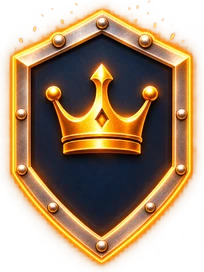
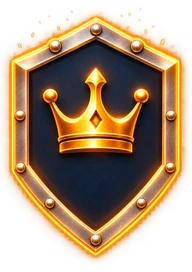
Profile > Ranks: keep every spark above the glowing Master Forger shield
Claude-Session: https://claude.ai/code/session_013GYUprcevR9B66pJGqYhEQ

diff --git a/docs/design/assets.md b/docs/design/assets.md
@@ -36,7 +36,7 @@ Stable build; `needed` does not exist yet.
 | Iron Forger rank shield, inactive (silver, crossed hammers) | `docs/design/art/ranks/iron-forger-inactive-v1.png` (1122 × 1402, transparent) | Profile > Ranks: the Iron Forger shield when it is not your rank, and the Next rank icon | Chris, 2026-11-07, supplied as approved rank art | KratosBI | `app/ui/art/ranks/iron-forger-inactive.webp` (218 × 272) | approved |
 | Steel Forger rank shield, active (glowing, gear) | `docs/design/art/ranks/steel-forger-active-v1.png` (1122 × 1402, transparent) | Profile > Ranks: the Steel Forger shield when it is your rank; name and rank number are real text over it | Chris, 2026-11-07, supplied as approved rank art | KratosBI | `app/ui/art/ranks/steel-forger-active.webp` (218 × 272) | approved |
 | Steel Forger rank shield, inactive (silver, gear) | `docs/design/art/ranks/steel-forger-inactive-v1.png` (1122 × 1402, transparent) | Profile > Ranks: the Steel Forger shield when it is not your rank, and the Next rank icon | Chris, 2026-11-07, supplied as approved rank art | KratosBI | `app/ui/art/ranks/steel-forger-inactive.webp` (218 × 272) | approved |
-| Master Forger rank shields, inactive (left) and active (right, glowing), crown | `docs/design/art/ranks/master-forger-shields-v1.png` (1536 × 1024, transparent, supplied as a pair) | Profile > Ranks: the Master Forger shield, glowing when it is your rank; name and rank number are real text over it | Chris, 2026-11-07, supplied as approved rank art | KratosBI | each half cut at the middle and trimmed to the same transparent box, so both states are the same size: `app/ui/art/ranks/master-forger-inactive.webp`, `master-forger-active.webp` (204 × 272) | approved |
+| Master Forger rank shields, inactive (left) and active (right, glowing), crown | `docs/design/art/ranks/master-forger-shields-v1.png` (1536 × 1024, transparent, supplied as a pair) | Profile > Ranks: the Master Forger shield, glowing when it is your rank; name and rank number are real text over it | Chris, 2026-11-07, supplied as approved rank art | KratosBI | each half cut at the middle and trimmed to the same box (full height, so every spark is kept), so both states are the same size: `app/ui/art/ranks/master-forger-inactive.webp`, `master-forger-active.webp` (204 × 272) | approved |
 | Top rank shield, active (glowing, crowned wolf in laurels; Chris calls it Grand Forgemaster) | `docs/design/art/ranks/top-rank-active-v1.png` (1122 × 1402, transparent) | Profile > Ranks: the top rank (Legend of the Forge) when it is your rank; the name is real text under the shield | Chris, 2026-11-07, supplied as approved rank art | KratosBI | `app/ui/art/ranks/legend-of-the-forge-active.webp` (218 × 272) | approved |
 | Top rank shield, inactive (silver, crowned wolf, laurels, hammers and anvil) | `docs/design/art/ranks/top-rank-inactive-v1.png` (1122 × 1402, transparent) | Profile > Ranks: the top rank on the progression until you hold it | Chris, 2026-11-07, supplied as approved rank art | KratosBI | `app/ui/art/ranks/legend-of-the-forge-inactive.webp` (218 × 272) | approved |
 | Wolf portrait, calm | storyboard panels 1 and 4 | Launch, SQL, the calm state | Storyboard crop | KratosBI; crop only, low resolution | needs a full-size original | placeholder |
